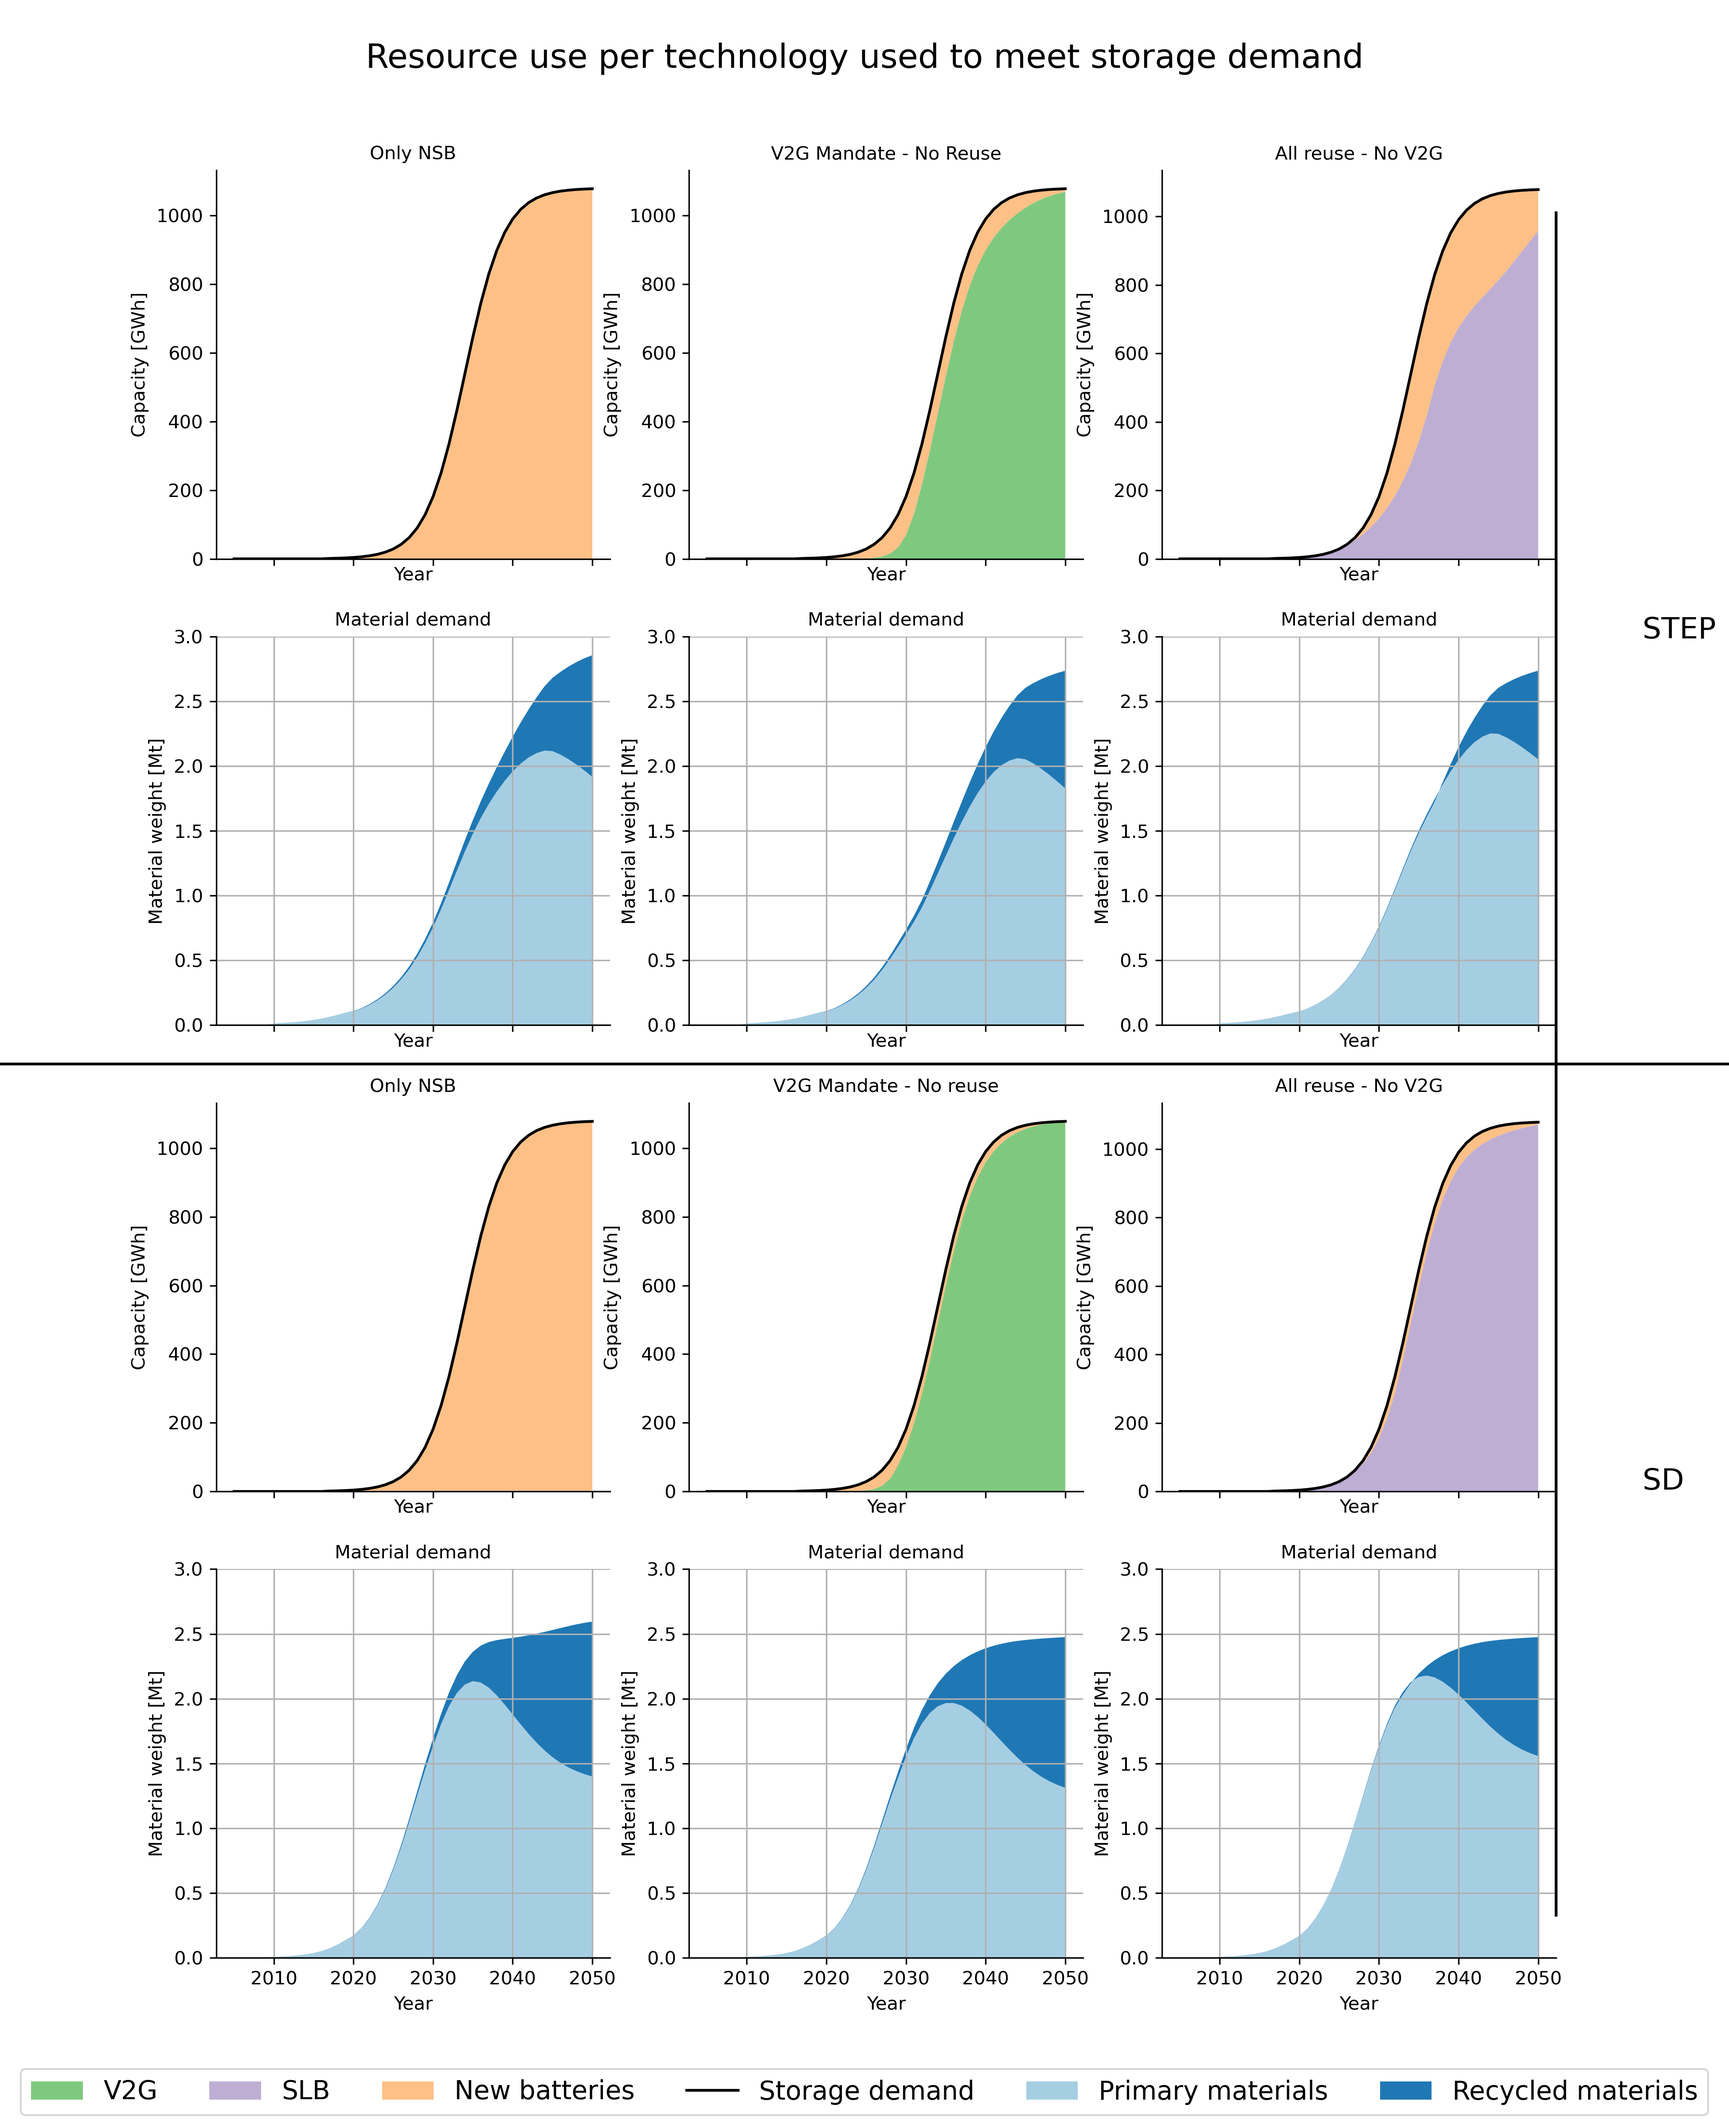
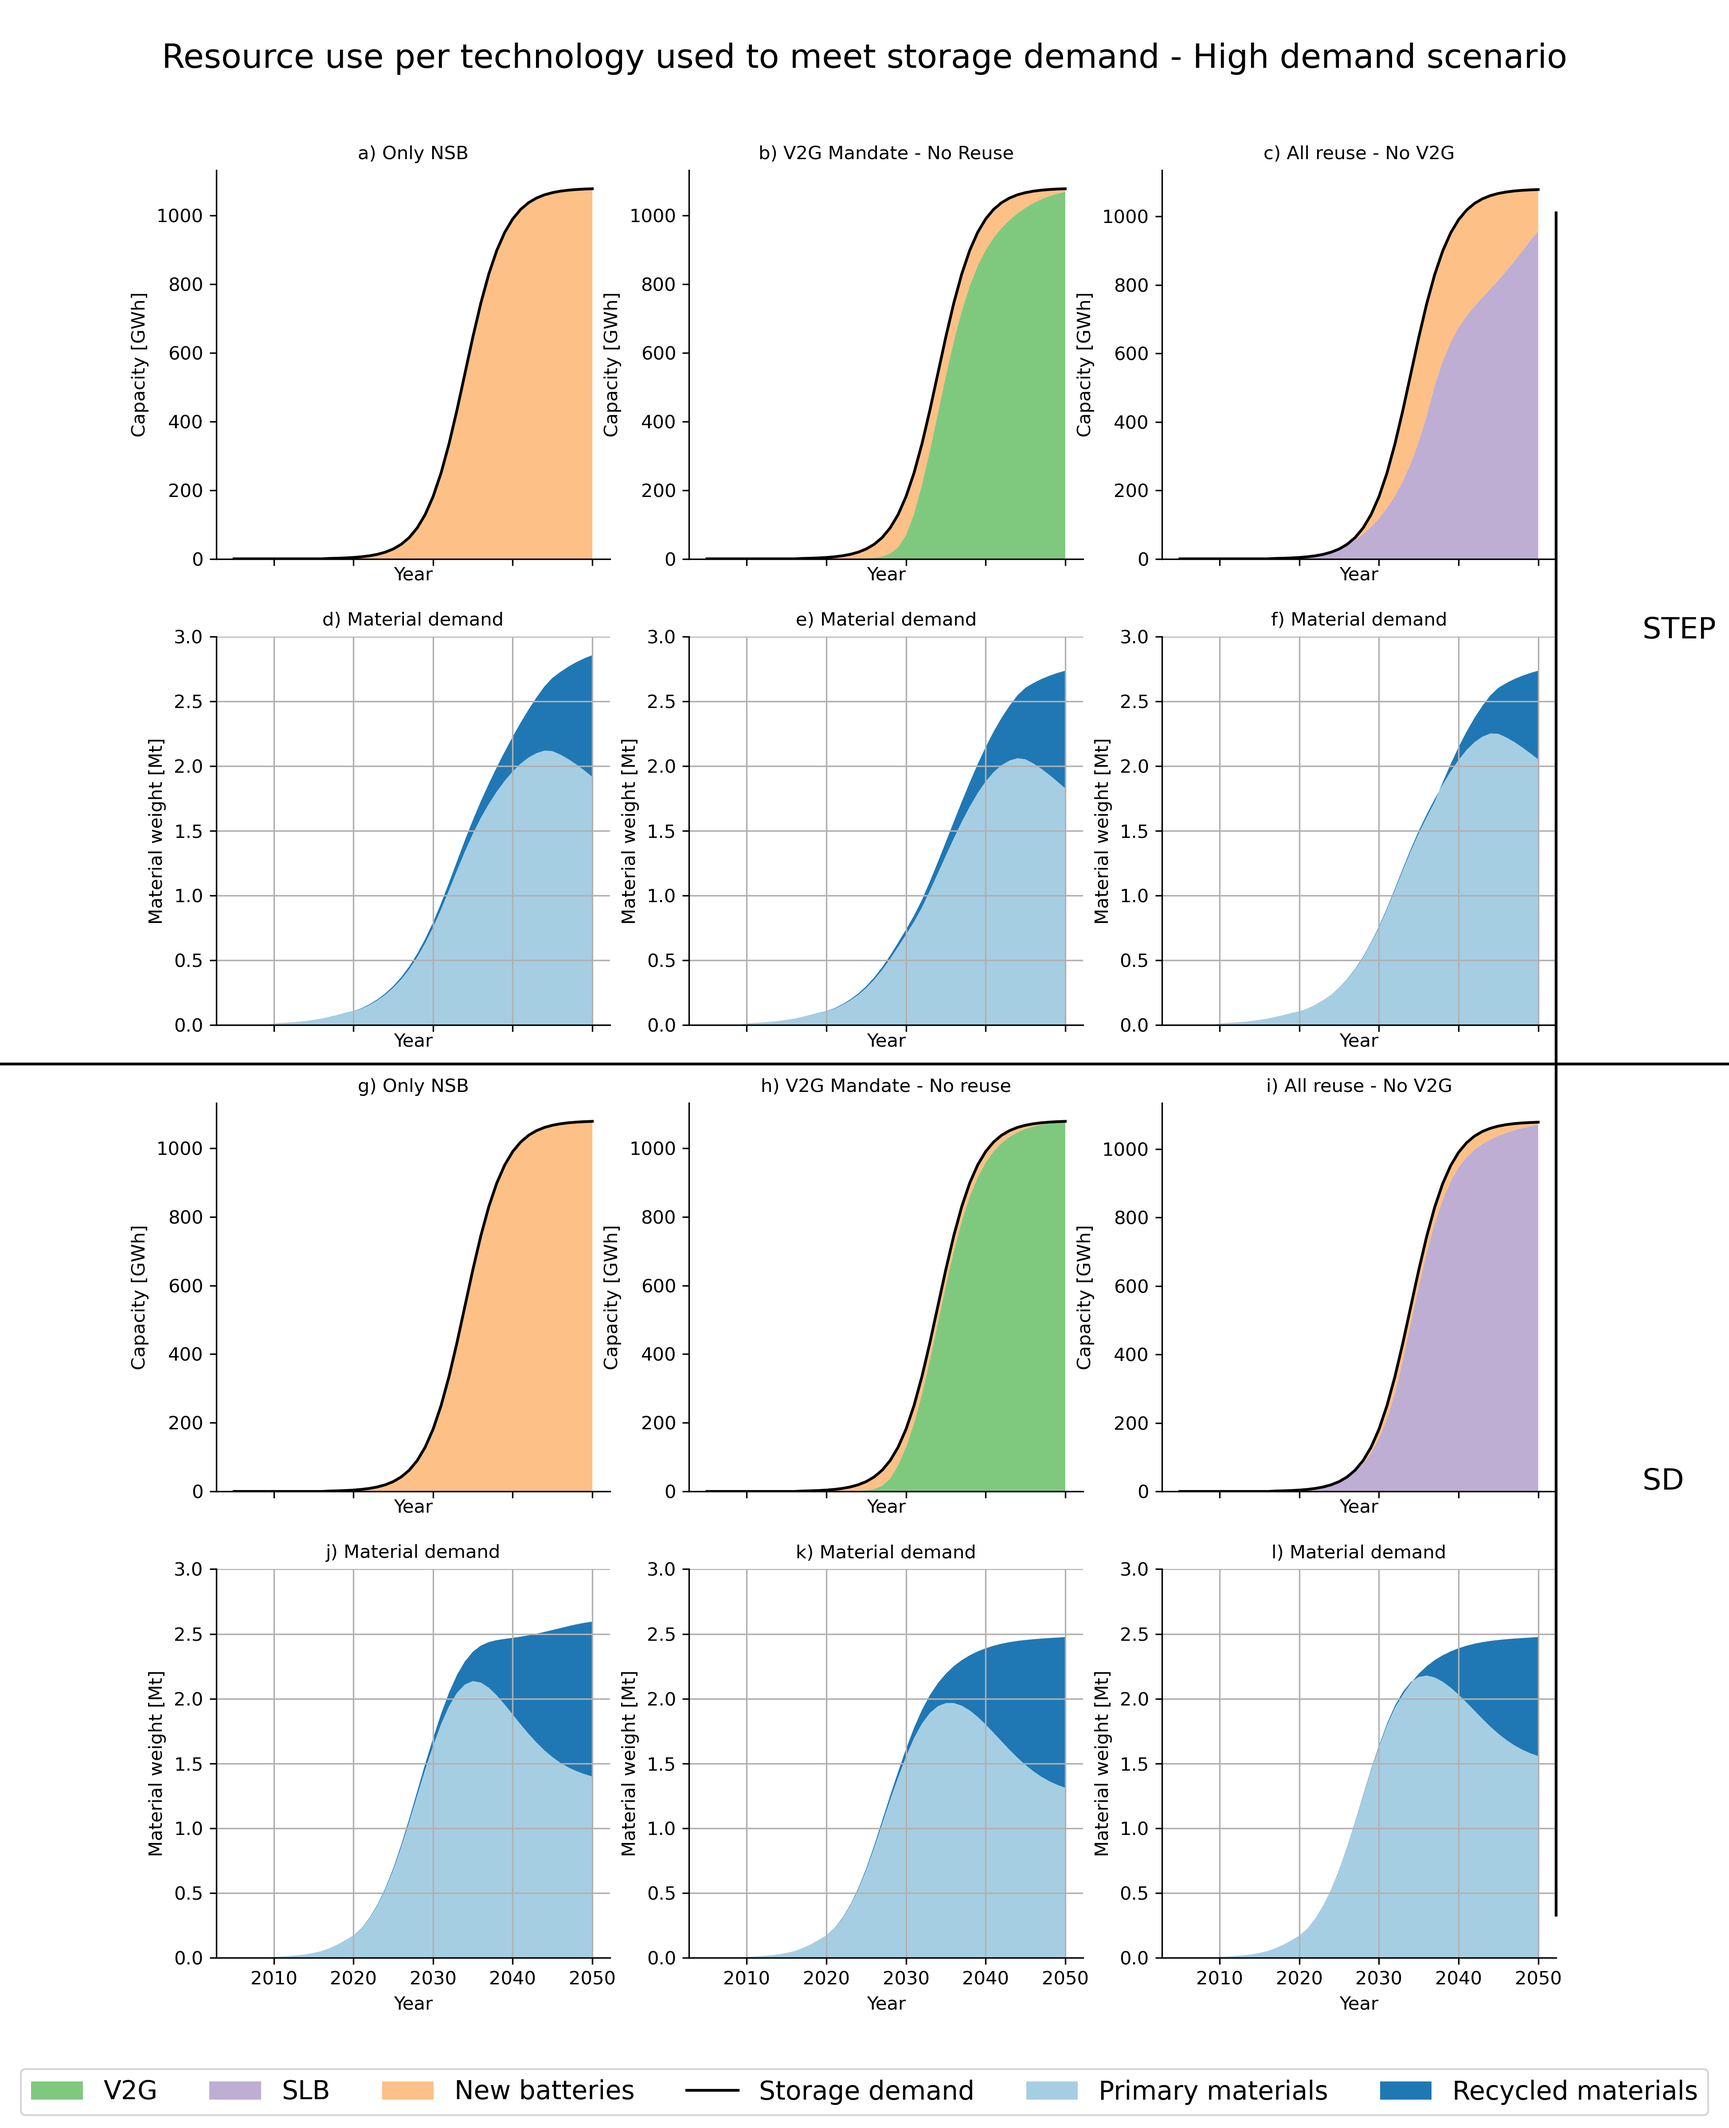
Created shares installed figure and updated multi

diff --git a/Model_constrained.py b/Model_constrained.py
@@ -958,7 +958,7 @@ def export_capacity_table():
     writer.save()
     
 # call export_capacity_table():
-export_capacity_table()
+#export_capacity_table()
        
 def plot_V2G_scenarios():
     from cycler import cycler
@@ -1359,7 +1359,7 @@ def plot_energy_resource_multi():
     top = ax[0,0].spines["top"]
     top.set_visible(False)
     # ax[0,0].legend(['Storage demand', 'V2G', 'SLB', 'New batteries'], loc='upper left',prop={'size':15})
-    ax[0,0].set_title('Only NSB'.format(S), fontsize=10)
+    ax[0,0].set_title('a) Only NSB'.format(S), fontsize=10)
     ax[0,0].set_xlabel('Year',fontsize =10)
     ax[0,0].tick_params(axis='both', which='major', labelsize=10)
     plt.ylim(0,1300)
@@ -1377,7 +1377,7 @@ def plot_energy_resource_multi():
     right_side.set_visible(False)
     top = ax[1,0].spines["top"]
     top.set_visible(False)
-    ax[1,0].set_title('Material demand'.format(S), fontsize=10)
+    ax[1,0].set_title('d) Material demand'.format(S), fontsize=10)
     ax[1,0].set_xlabel('Year',fontsize =10)
     ax[1,0].tick_params(axis='both', which='major', labelsize=10)
     # ax[1,0].legend(['Primary materials', 'Recycled materials'], loc='upper left')
@@ -1397,7 +1397,7 @@ def plot_energy_resource_multi():
     top = ax[0,1].spines["top"]
     top.set_visible(False)
     # ax[0,1].legend(['Storage demand', 'V2G', 'SLB', 'New batteries'], loc='upper left',prop={'size':15})
-    ax[0,1].set_title('V2G Mandate - No Reuse'.format(S), fontsize=10)
+    ax[0,1].set_title('b) V2G Mandate - No Reuse'.format(S), fontsize=10)
     ax[0,1].set_xlabel('Year',fontsize =10)
     ax[0,1].tick_params(axis='both', which='major', labelsize=10)
     # ax[0,1].legend(['High storage demand','V2G', 'SLB', 'New batteries'])
@@ -1414,7 +1414,7 @@ def plot_energy_resource_multi():
     right_side.set_visible(False)
     top = ax[1,1].spines["top"]
     top.set_visible(False)
-    ax[1,1].set_title('Material demand'.format(S), fontsize=10)
+    ax[1,1].set_title('e) Material demand'.format(S), fontsize=10)
     ax[1,1].set_xlabel('Year',fontsize =10)
     ax[1,1].tick_params(axis='both', which='major', labelsize=10)
     ax[1,1].set_ylim(0,3)
@@ -1434,7 +1434,7 @@ def plot_energy_resource_multi():
     top = ax[0,2].spines["top"]
     top.set_visible(False)
     # ax[0,2].legend(['Storage demand', 'V2G', 'SLB', 'New batteries'], loc='upper left',prop={'size':15})
-    ax[0,2].set_title('All reuse - No V2G'.format(S), fontsize=10)
+    ax[0,2].set_title('c) All reuse - No V2G'.format(S), fontsize=10)
     ax[0,2].set_xlabel('Year',fontsize =10)
     # ax[0,2].legend(['High storage demand','V2G', 'SLB', 'New batteries'])
     # ax[0,2].set_ylim([0,5])
@@ -1452,7 +1452,7 @@ def plot_energy_resource_multi():
     right_side.set_visible(False)
     top = ax[1,2].spines["top"]
     top.set_visible(False)
-    ax[1,2].set_title('Material demand'.format(S), fontsize=10)
+    ax[1,2].set_title('f) Material demand'.format(S), fontsize=10)
     ax[1,2].set_xlabel('Year',fontsize =10)
     ax[1,2].tick_params(axis='both', which='major', labelsize=10)
     # ax[1,2].legend(['Primary materials', 'Recycled materials'], loc='upper left')
@@ -1479,7 +1479,7 @@ def plot_energy_resource_multi():
     top = ax[2,0].spines["top"]
     top.set_visible(False)
     # ax[0,0].legend(['Storage demand', 'V2G', 'SLB', 'New batteries'], loc='upper left',prop={'size':15})
-    ax[2,0].set_title('Only NSB'.format(S), fontsize=10)
+    ax[2,0].set_title('g) Only NSB'.format(S), fontsize=10)
     ax[2,0].set_xlabel('Year',fontsize =10)
     ax[2,0].tick_params(axis='both', which='major', labelsize=10)
     plt.ylim(0,1300)
@@ -1497,7 +1497,7 @@ def plot_energy_resource_multi():
     right_side.set_visible(False)
     top = ax[3,0].spines["top"]
     top.set_visible(False)
-    ax[3,0].set_title('Material demand'.format(S), fontsize=10)
+    ax[3,0].set_title('j) Material demand'.format(S), fontsize=10)
     ax[3,0].set_xlabel('Year',fontsize =10)
     ax[3,0].tick_params(axis='both', which='major', labelsize=10)
     ax[3,0].set_ylim(0,3)
@@ -1521,7 +1521,7 @@ def plot_energy_resource_multi():
     top = ax[2,1].spines["top"]
     top.set_visible(False)
     # ax[0,1].legend(['Storage demand', 'V2G', 'SLB', 'New batteries'], loc='upper left',prop={'size':15})
-    ax[2,1].set_title('V2G Mandate - No reuse'.format(S), fontsize=10)
+    ax[2,1].set_title('h) V2G Mandate - No reuse'.format(S), fontsize=10)
     ax[2,1].set_xlabel('Year',fontsize =10)
     ax[2,1].tick_params(axis='both', which='major', labelsize=10)
     plt.ylim(0,1300)
@@ -1537,7 +1537,7 @@ def plot_energy_resource_multi():
     right_side.set_visible(False)
     top = ax[3,1].spines["top"]
     top.set_visible(False)
-    ax[3,1].set_title('Material demand'.format(S), fontsize=10)
+    ax[3,1].set_title('k) Material demand'.format(S), fontsize=10)
     ax[3,1].set_xlabel('Year',fontsize =10)
     ax[3,1].tick_params(axis='both', which='major', labelsize=10)
     ax[3,1].set_ylim(0,3)
@@ -1562,7 +1562,7 @@ def plot_energy_resource_multi():
     top = ax[2,2].spines["top"]
     top.set_visible(False)
     # ax[0,2].legend(['Storage demand', 'V2G', 'SLB', 'New batteries'], loc='upper left',prop={'size':15})
-    ax[2,2].set_title('All reuse - No V2G'.format(S), fontsize=10)
+    ax[2,2].set_title('i) All reuse - No V2G'.format(S), fontsize=10)
     ax[2,2].set_xlabel('Year',fontsize =10)
     # ax[0,2].set_ylim([0,5])
     ax[2,2].tick_params(axis='both', which='major', labelsize=10)
@@ -1579,7 +1579,7 @@ def plot_energy_resource_multi():
     right_side.set_visible(False)
     top = ax[3,2].spines["top"]
     top.set_visible(False)
-    ax[3,2].set_title('Material demand'.format(S), fontsize=10)
+    ax[3,2].set_title('l) Material demand'.format(S), fontsize=10)
     ax[3,2].set_xlabel('Year',fontsize =10)
     ax[3,2].tick_params(axis='both', which='major', labelsize=10)
     ax[3,2].set_ylim(0,3)
@@ -1596,7 +1596,7 @@ def plot_energy_resource_multi():
     lines, labels = [sum(lol, []) for lol in zip(*lines_labels)]
     fig.legend(lines, labels, loc='lower center', ncol=6, fontsize=14)
     # Add title
-    fig.suptitle('Resource use per technology used to meet storage demand', fontsize=18)
+    fig.suptitle('Resource use per technology used to meet storage demand - High demand scenario', fontsize=18)
     fig.subplots_adjust(top=0.92, bottom=0.08)
     plt.savefig(os.path.join(os.getcwd(), 'results/Manuscript/resource_multi'), dpi=300)
 
@@ -1684,6 +1684,56 @@ def plot_material_security():
     fig.tight_layout()
     plt.savefig(os.path.join(os.getcwd(), 'results/Manuscript/material_security_slowEV'))
 
+def plot_share_installed():
+    from cycler import cycler
+    import seaborn as sns
+    scen_cycler = (cycler(color=sns.color_palette('Accent', 6)) *
+            cycler(linestyle=['-','--',':']))    
+    z = 0 # Low, medium, high
+    s = 1 # Low, medium, high
+    a = 4 # NCX, LFP, Next_Gen, Roskill
+    R = 0 # LFP reused, no reuse, all reuse
+    E = 0 # Low, medium, high
+    fig, ax = plt.subplots(1,2,figsize=(17,7))
+    ax[0].set_prop_cycle(scen_cycler)
+    for v in range(1,4):
+        ax[0].plot(MaTrace_System.IndexTable['Classification']['Time'].Items[70::], MaTrace_System.FlowDict['C_2_3_real'].Values[z,S,a,R,v,E,:,:].sum(axis=0)[70::]\
+            /np.einsum('gsbt->t', MaTrace_System.FlowDict['C_2_3_max'].Values[z,S,a,v,:,:,:,:])[70::]*100)
+    v=0
+    for R in range(1,3):
+        ax[0].plot(MaTrace_System.IndexTable['Classification']['Time'].Items[70::], np.einsum('gsbt->t',MaTrace_System.FlowDict['C_4_5'].Values[z,S,a,R,v,E,:,:,:,:])[70::]\
+            /np.einsum('gsbt->t', SLB_available[z,S,a,R,v,E,:,:,:,:])[70::]*100)
+    ax[0].set_ylabel('Share installed [%]',fontsize =18)
+    right_side = ax[0].spines["right"]
+    right_side.set_visible(False)
+    top = ax[0].spines["top"]
+    top.set_visible(False)
+    ax[0].legend(loc='lower left',prop={'size':15})
+    ax[0].set_title('a) Share of installed capacity compared to available \n Low demand scenario', fontsize=18)
+    ax[0].set_xlabel('Year',fontsize =16)
+    ax[0].tick_params(axis='both', which='major', labelsize=18)
+    ax[0].set_ylim([0,105])
+
+    E=2
+    ax[1].set_prop_cycle(scen_cycler)
+    for v in range(1,4):
+        ax[1].plot(MaTrace_System.IndexTable['Classification']['Time'].Items[70::], MaTrace_System.FlowDict['C_2_3_real'].Values[z,S,a,R,v,E,:,:].sum(axis=0)[70::]\
+            /np.einsum('gsbt->t', MaTrace_System.FlowDict['C_2_3_max'].Values[z,S,a,v,:,:,:,:])[70::]*100, label=IndexTable.Classification[IndexTable.index.get_loc('V2G_Scenarios')].Items[v])
+    v=0
+    for R in range(1,3):
+        ax[1].plot(MaTrace_System.IndexTable['Classification']['Time'].Items[70::], np.einsum('gsbt->t',MaTrace_System.FlowDict['C_4_5'].Values[z,S,a,R,v,E,:,:,:,:])[70::]\
+            /np.einsum('gsbt->t', SLB_available[z,S,a,R,v,E,:,:,:,:])[70::]*100, label=IndexTable.Classification[IndexTable.index.get_loc('Reuse_Scenarios')].Items[R])
+    ax[1].set_ylabel('Share installed [%]',fontsize =18)
+    right_side = ax[1].spines["right"]
+    right_side.set_visible(False)
+    top = ax[1].spines["top"]
+    top.set_visible(False)
+    ax[1].set_title('b) Share of installed capacity compared to available \n High demand scenario', fontsize=18)
+    ax[1].set_xlabel('Year',fontsize =16)
+    ax[1].tick_params(axis='both', which='major', labelsize=18)
+    ax[1].set_ylim([0,105])
+    fig.legend(loc='upper left',prop={'size':15}, bbox_to_anchor=(0.2,0), ncol=5, handletextpad = 2, handlelength = 2)
+    plt.savefig(os.path.join(os.getcwd(), 'results/Manuscript/shares_installed'), dpi=600)
 # %%
 ## Exporting P values Anna
 def export_P_values():

diff --git a/LogFileTest.md b/LogFileTest.md
@@ -18,3 +18,39 @@ Define model classifications and select items for model classifications accordin
 
 Define index table dataframe.
 
+No artists with labels found to put in legend.  Note that artists whose label start with an underscore are ignored when legend() is called with no argument.
+
+No artists with labels found to put in legend.  Note that artists whose label start with an underscore are ignored when legend() is called with no argument.
+
+No artists with labels found to put in legend.  Note that artists whose label start with an underscore are ignored when legend() is called with no argument.
+
+No artists with labels found to put in legend.  Note that artists whose label start with an underscore are ignored when legend() is called with no argument.
+
+No artists with labels found to put in legend.  Note that artists whose label start with an underscore are ignored when legend() is called with no argument.
+
+No artists with labels found to put in legend.  Note that artists whose label start with an underscore are ignored when legend() is called with no argument.
+
+No artists with labels found to put in legend.  Note that artists whose label start with an underscore are ignored when legend() is called with no argument.
+
+No artists with labels found to put in legend.  Note that artists whose label start with an underscore are ignored when legend() is called with no argument.
+
+No artists with labels found to put in legend.  Note that artists whose label start with an underscore are ignored when legend() is called with no argument.
+
+No artists with labels found to put in legend.  Note that artists whose label start with an underscore are ignored when legend() is called with no argument.
+
+No artists with labels found to put in legend.  Note that artists whose label start with an underscore are ignored when legend() is called with no argument.
+
+No artists with labels found to put in legend.  Note that artists whose label start with an underscore are ignored when legend() is called with no argument.
+
+No artists with labels found to put in legend.  Note that artists whose label start with an underscore are ignored when legend() is called with no argument.
+
+No artists with labels found to put in legend.  Note that artists whose label start with an underscore are ignored when legend() is called with no argument.
+
+No artists with labels found to put in legend.  Note that artists whose label start with an underscore are ignored when legend() is called with no argument.
+
+No artists with labels found to put in legend.  Note that artists whose label start with an underscore are ignored when legend() is called with no argument.
+
+No artists with labels found to put in legend.  Note that artists whose label start with an underscore are ignored when legend() is called with no argument.
+
+No artists with labels found to put in legend.  Note that artists whose label start with an underscore are ignored when legend() is called with no argument.
+
